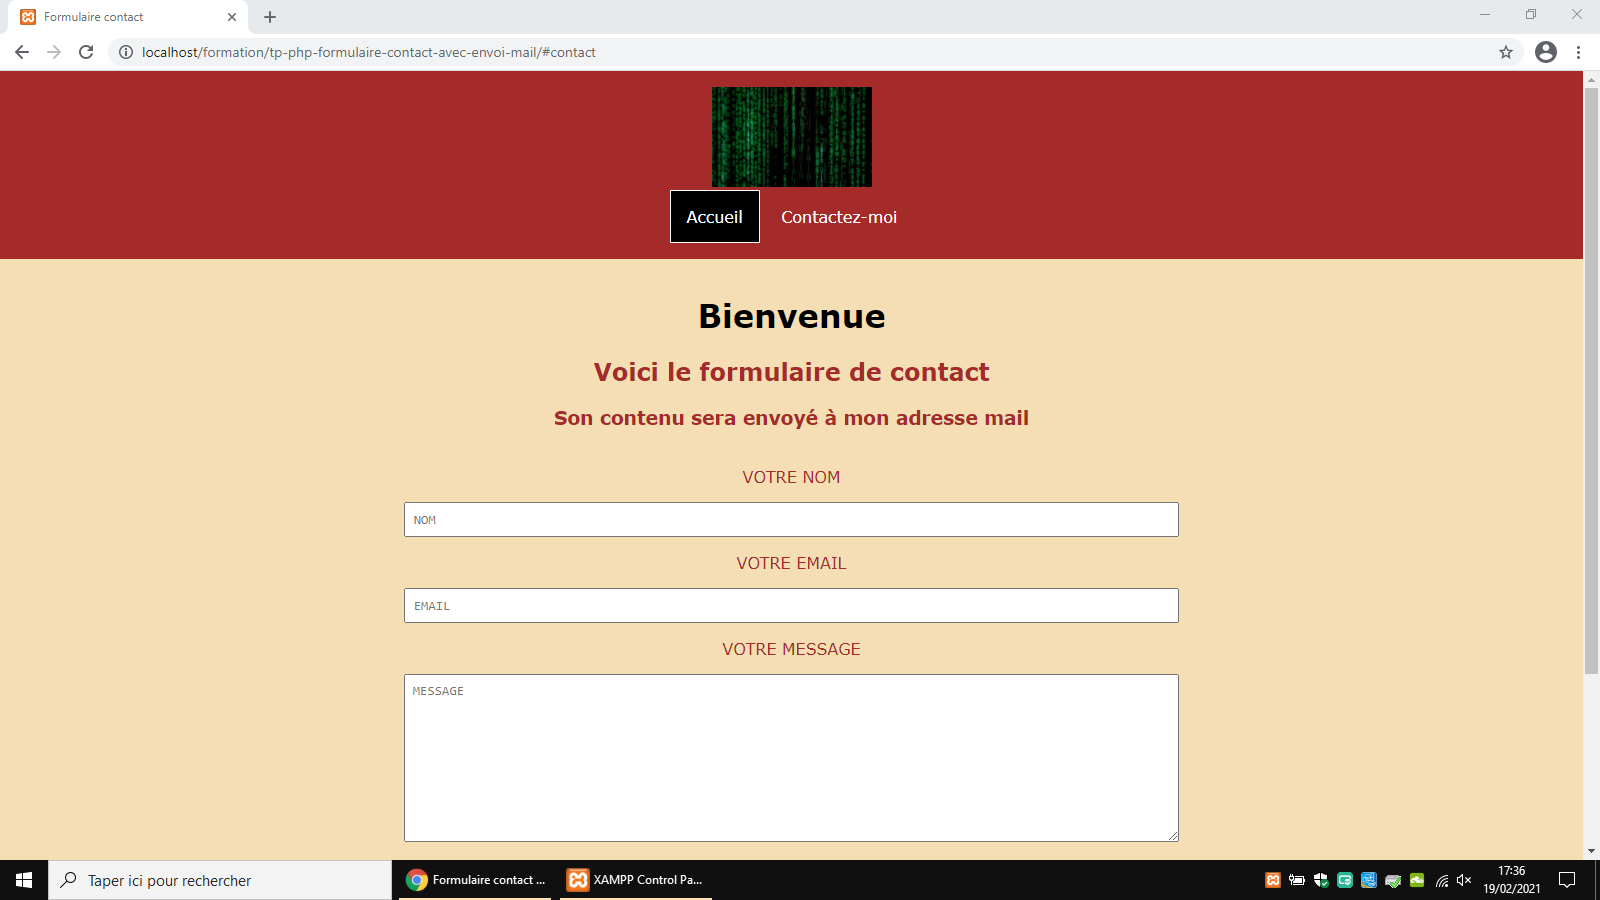
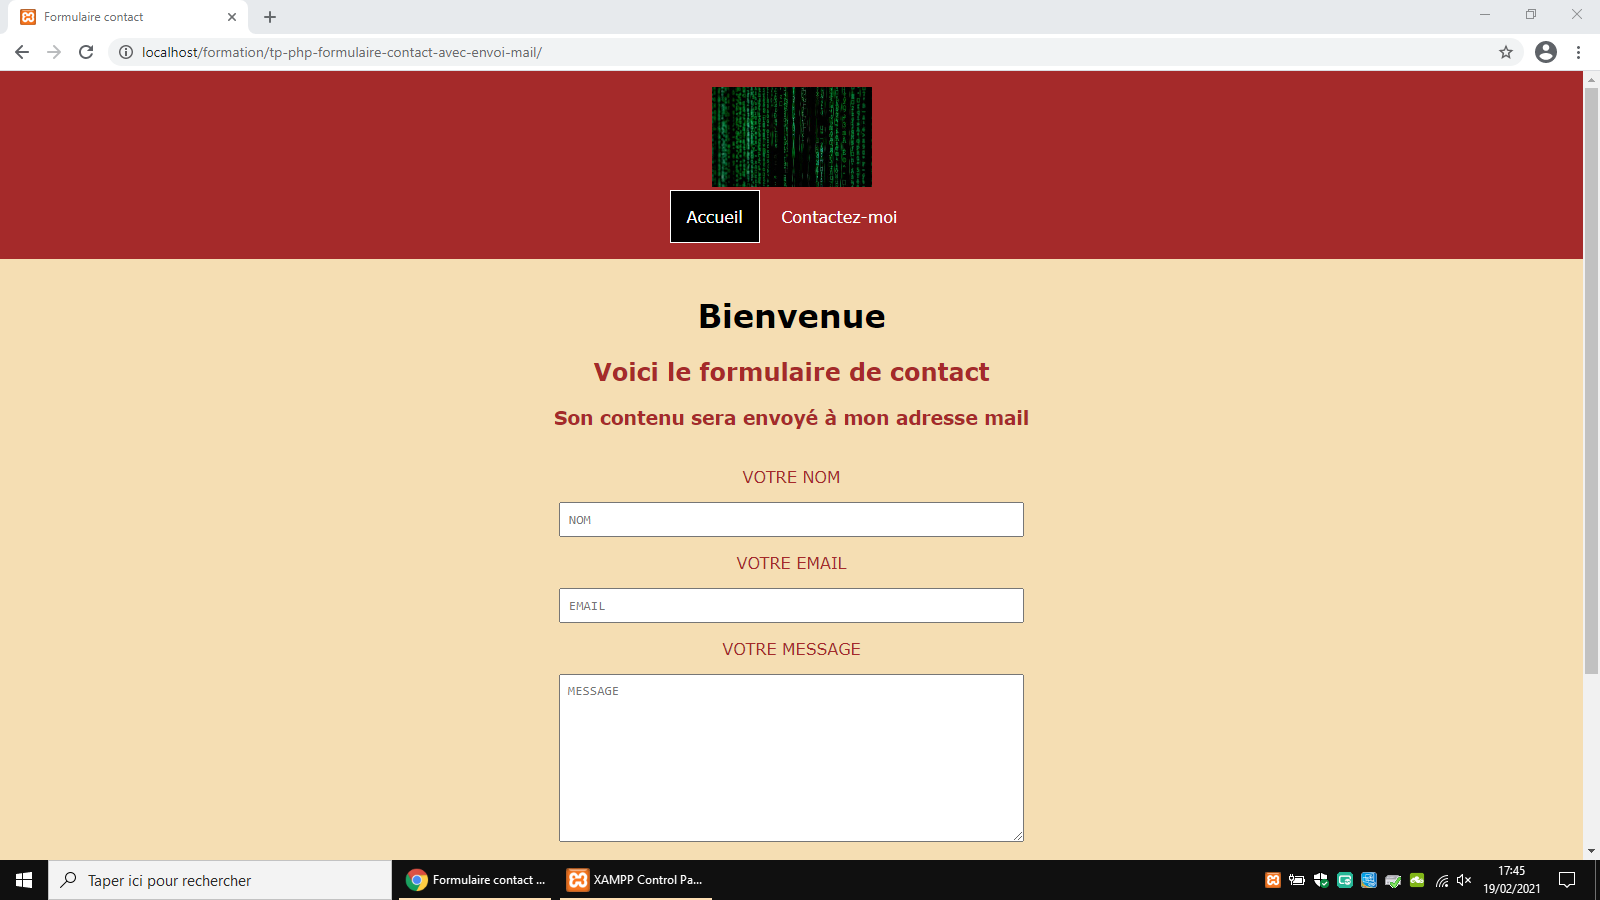
ajout modifications

diff --git a/assets/css/style.css b/assets/css/style.css
@@ -67,7 +67,7 @@ form {
 }
 
 input, textarea, button {
-    width: 50%;
+    width: 30%;
     padding: 0.5rem;
     margin: 1rem;
     font-family: monospace;
